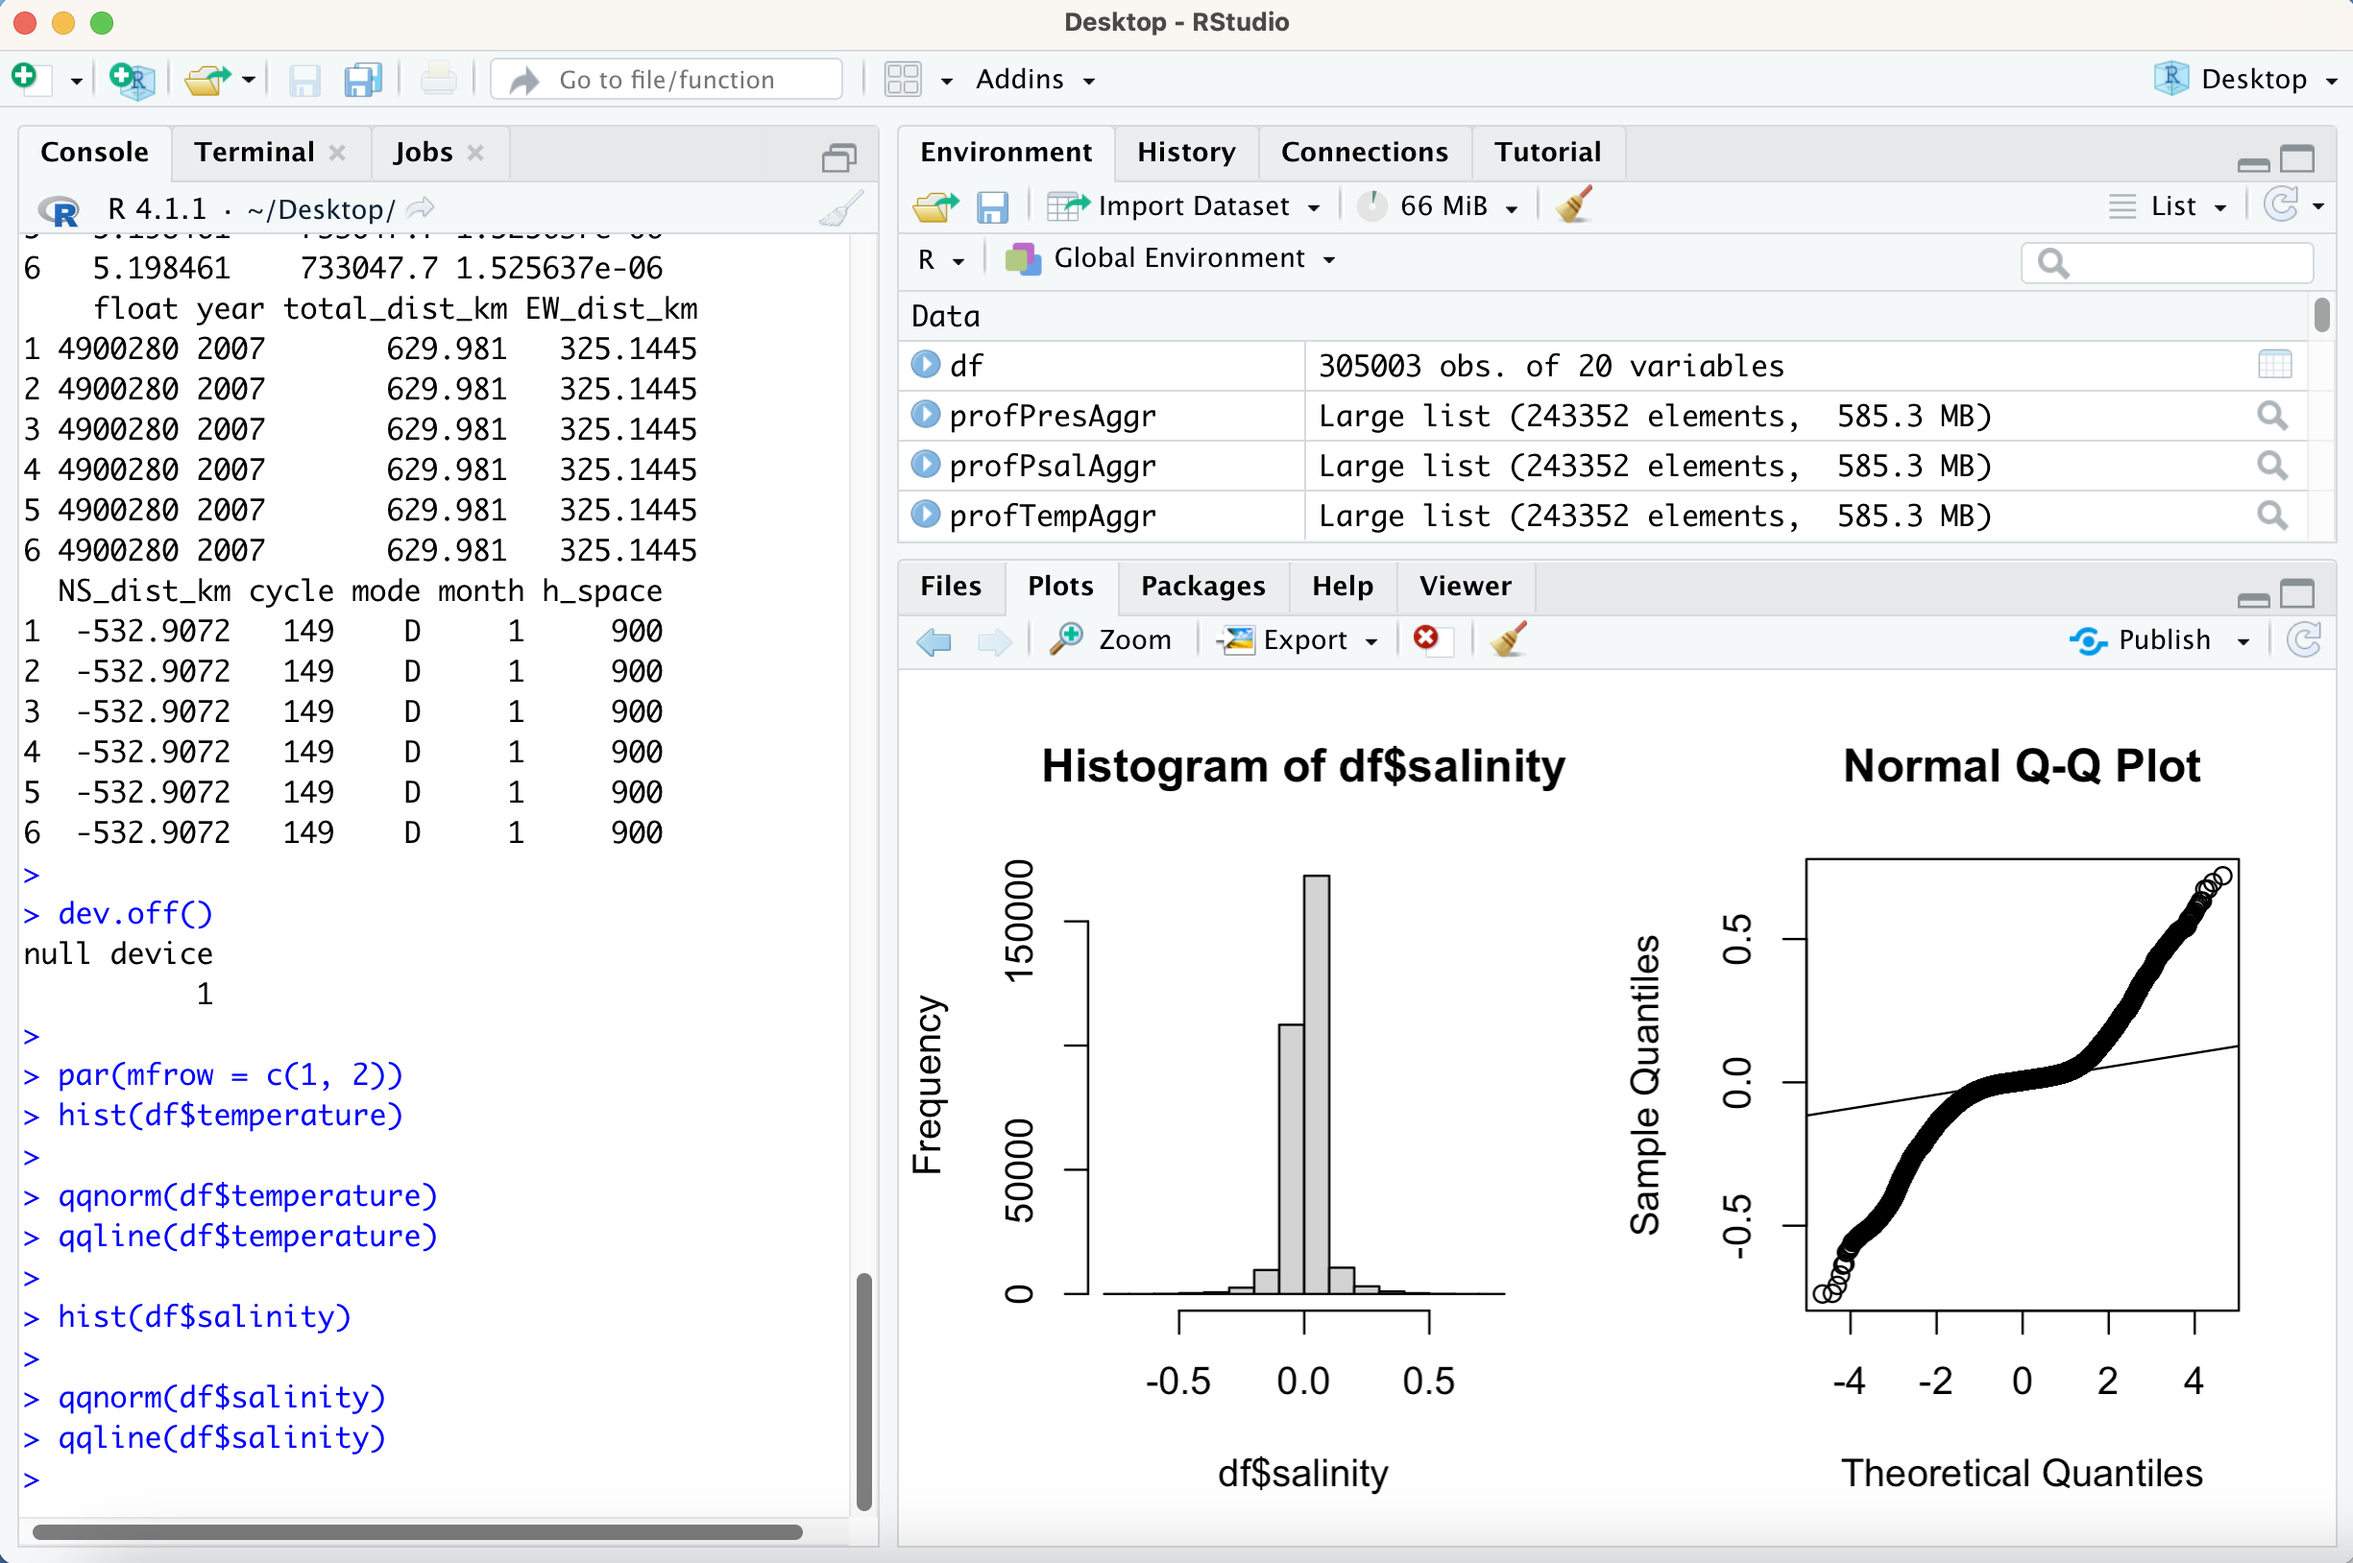
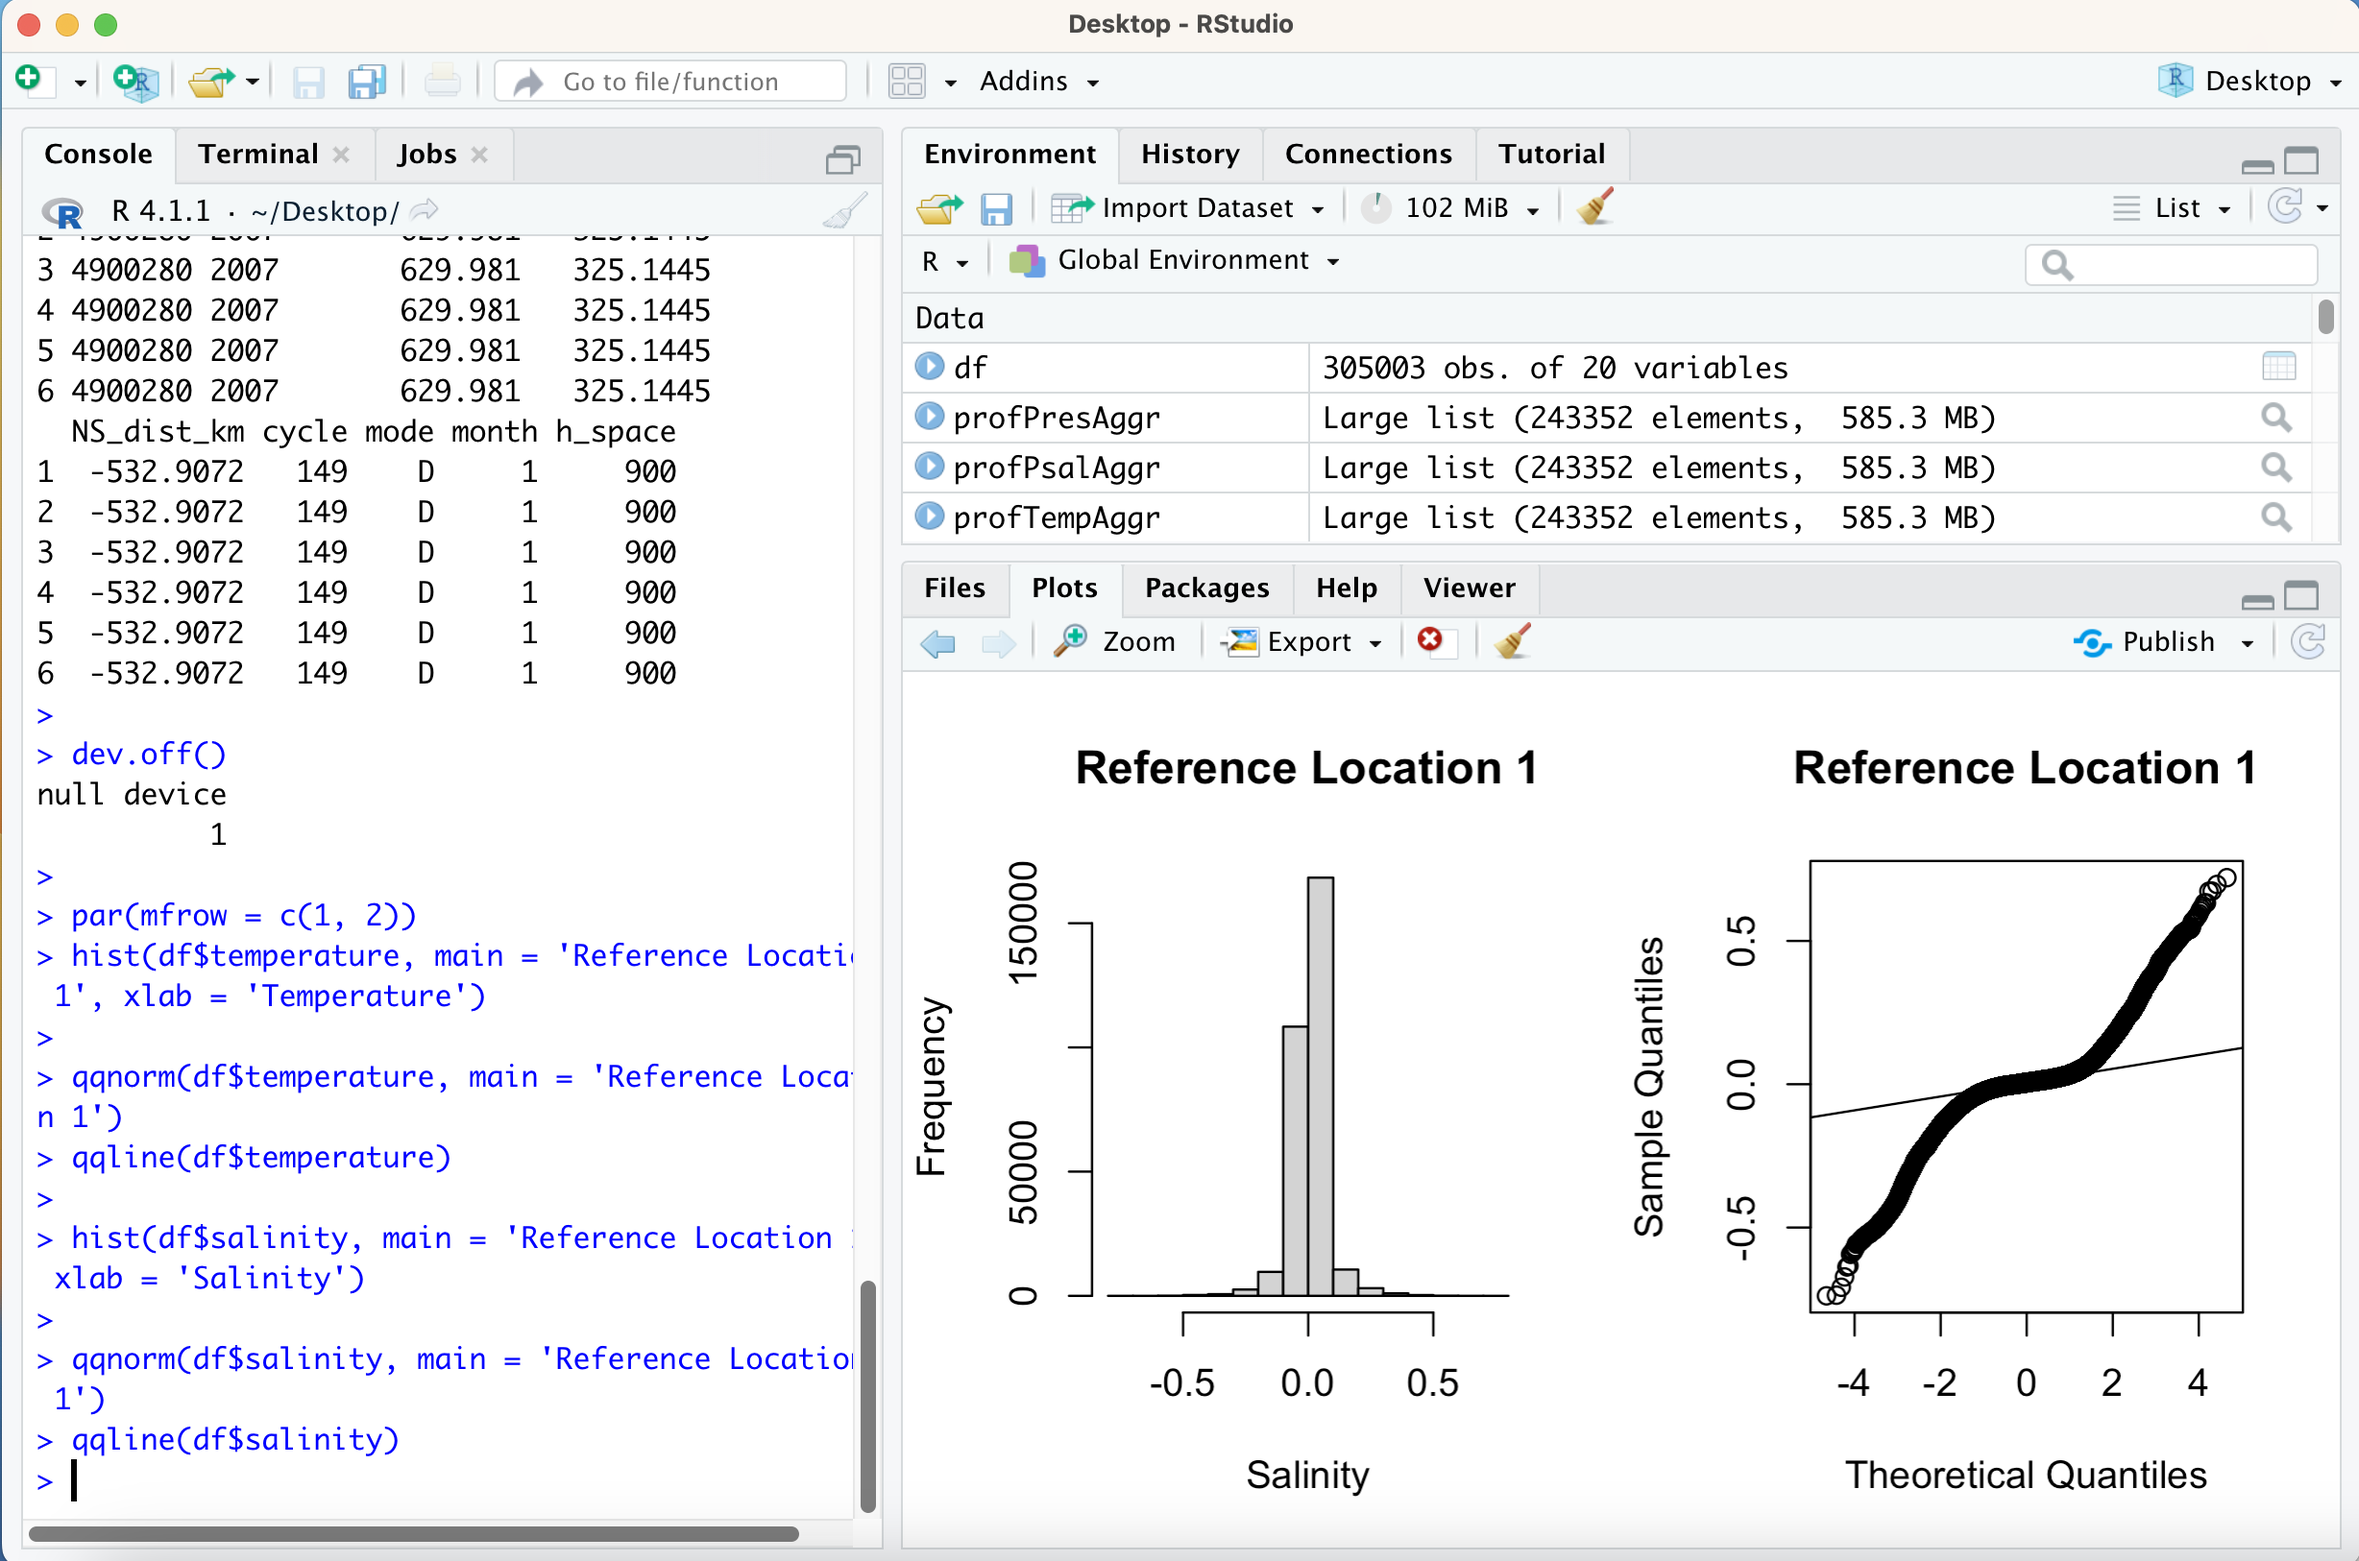
edited new blog post

diff --git a/_posts/2023-01-01-blog-post-1.md b/_posts/2023-01-01-blog-post-1.md
@@ -117,13 +117,13 @@ head(df)
 dev.off()
 
 par(mfrow = c(1, 2))
-hist(df$temperature)
+hist(df$temperature, main = 'Reference Location 1', xlab = 'Temperature')
 
-qqnorm(df$temperature)
+qqnorm(df$temperature, main = 'Reference Location 1')
 qqline(df$temperature)
 
-hist(df$salinity)
+hist(df$salinity, main = 'Reference Location 1', xlab = 'Salinity')
 
-qqnorm(df$salinity)
+qqnorm(df$salinity, main = 'Reference Location 1')
 qqline(df$salinity)
 ```
